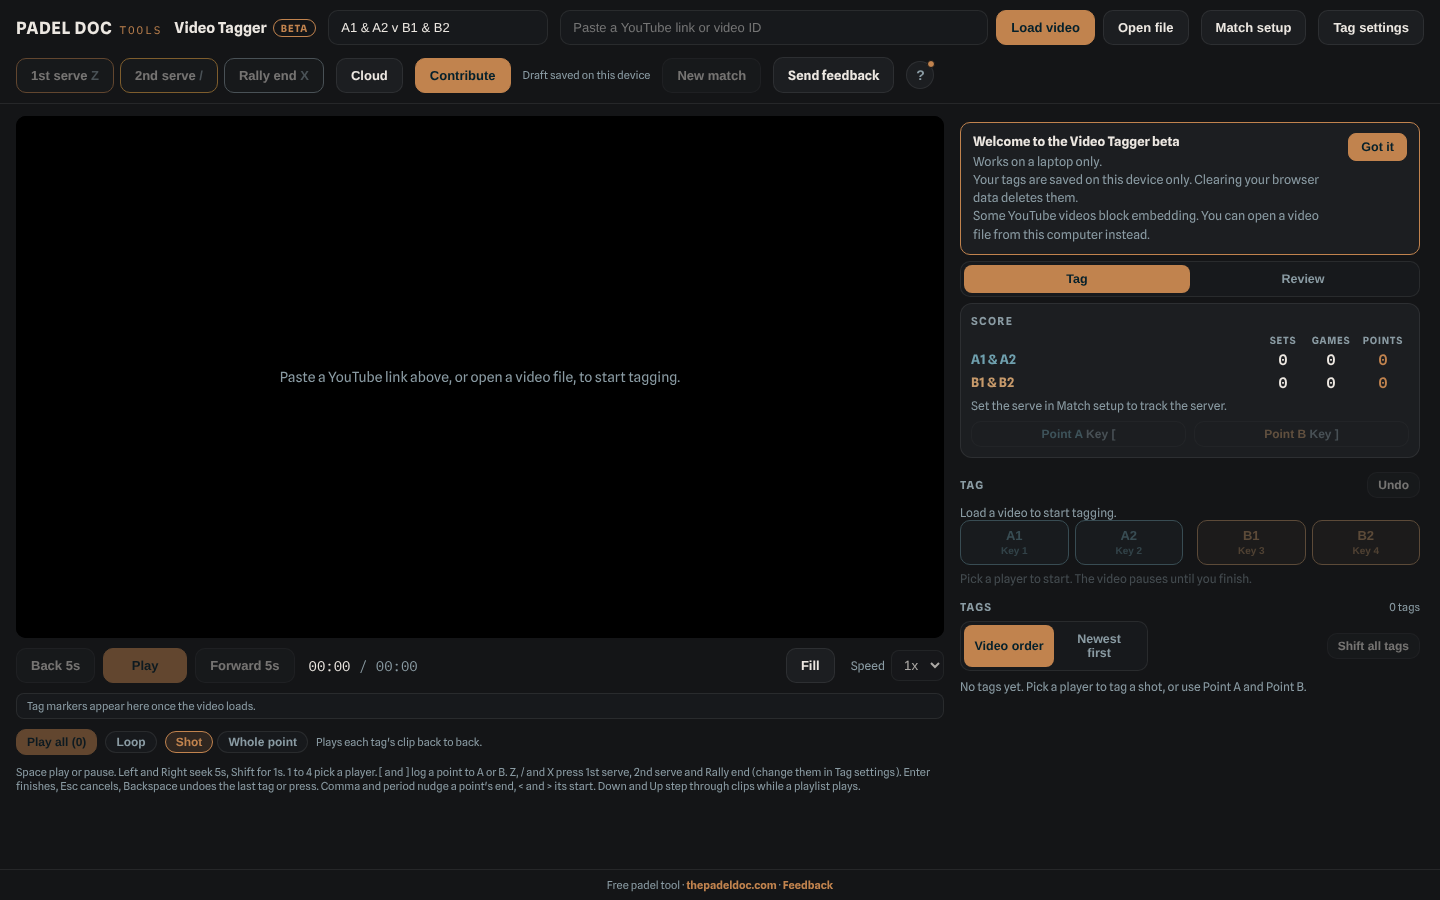
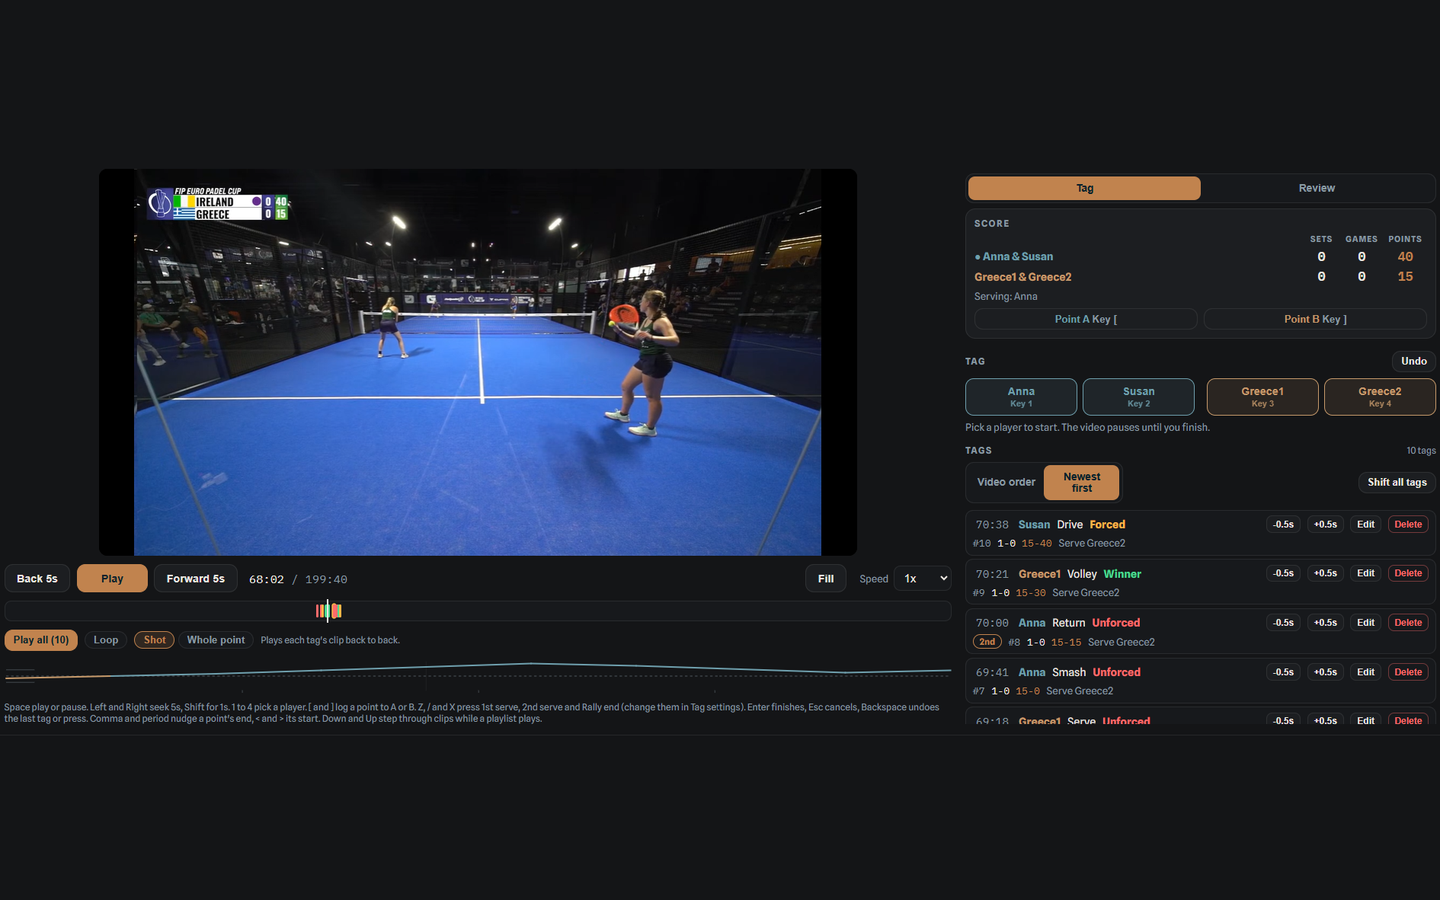
Match Tagger and Technique Analyser names; new Match Tagger picture (R1)
The Tagger line: "Tag each point of a match, compare by outcome, player
and shot type." The picture is a real tagged match.

Claude-Session: https://claude.ai/code/session_014uMF15ZM3UMAk5hF3tJn5E

diff --git a/app/tools-data.ts b/app/tools-data.ts
@@ -18,9 +18,9 @@ export type Tool = {
 export const tools: Tool[] = [
   {
     slug: 'tagger',
-    name: 'Video Tagger',
+    name: 'Match Tagger',
     href: '/tagger',
-    line: 'Tag each point of a match video and jump back to any shot.',
+    line: 'Tag each point of a match, compare by outcome, player and shot type.',
     points: [
       'YouTube or a video file on your laptop',
       'Score, shot types and rally lengths build as you tag',
@@ -64,7 +64,7 @@ export const tools: Tool[] = [
   },
   {
     slug: 'analyse',
-    name: 'Video Analyser',
+    name: 'Technique Analyser',
     href: '/analyse',
     line: 'Trim a clip, slow it down and draw on it.',
     points: ['Frame by frame and slow motion', 'Draw lines, angles and circles on the frame', 'The video never leaves your phone'],

diff --git a/README.md b/README.md
@@ -29,7 +29,7 @@ npm run build    # production build (what Netlify runs)
 
 ## The two brands share one source
 
-The React tools (Tactics Board, Match Tracker, Video Analyser, Americano Organizer,
+The React tools (Tactics Board, Match Tracker, Technique Analyser, Americano Organizer,
 Balance Calculator) live in **`../padel-coach-src`**. That repo builds the SAME app
 twice — once per brand — selecting a token file at build time:
 
